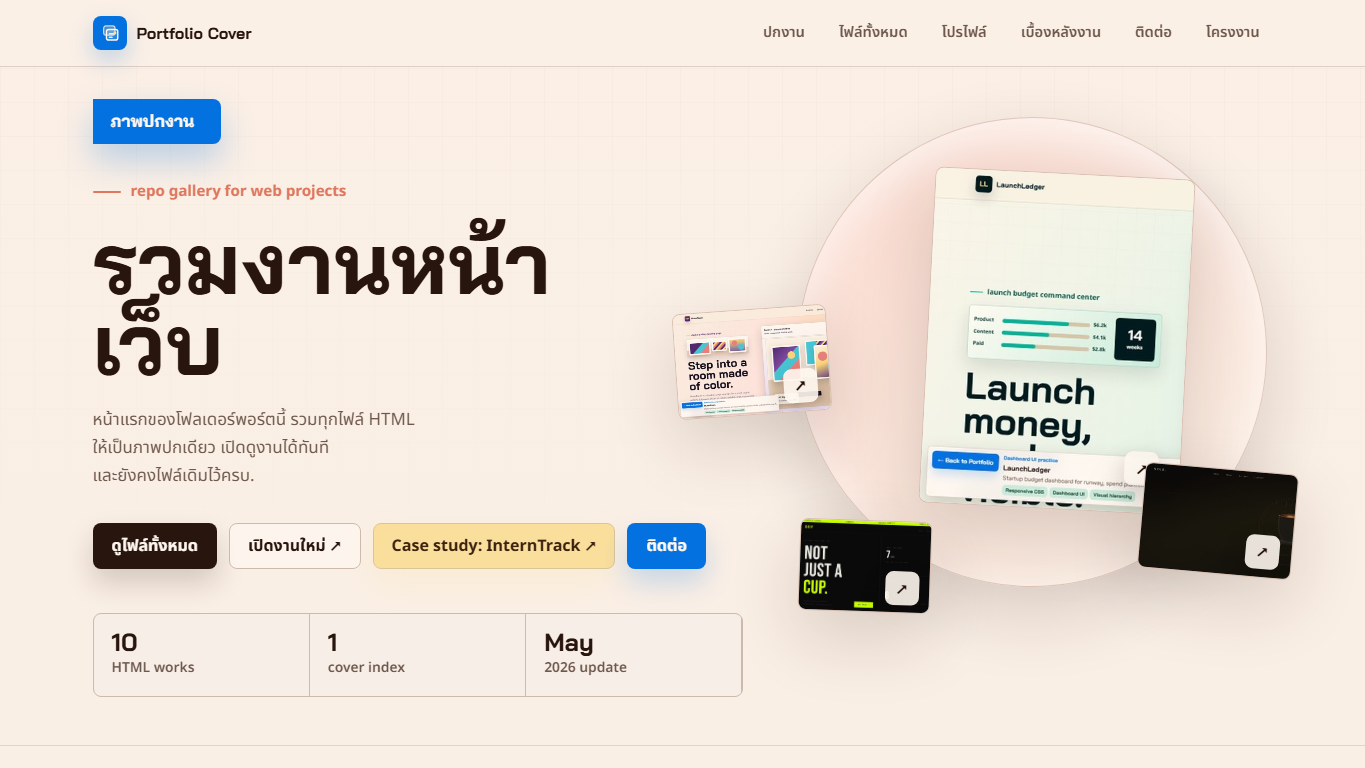
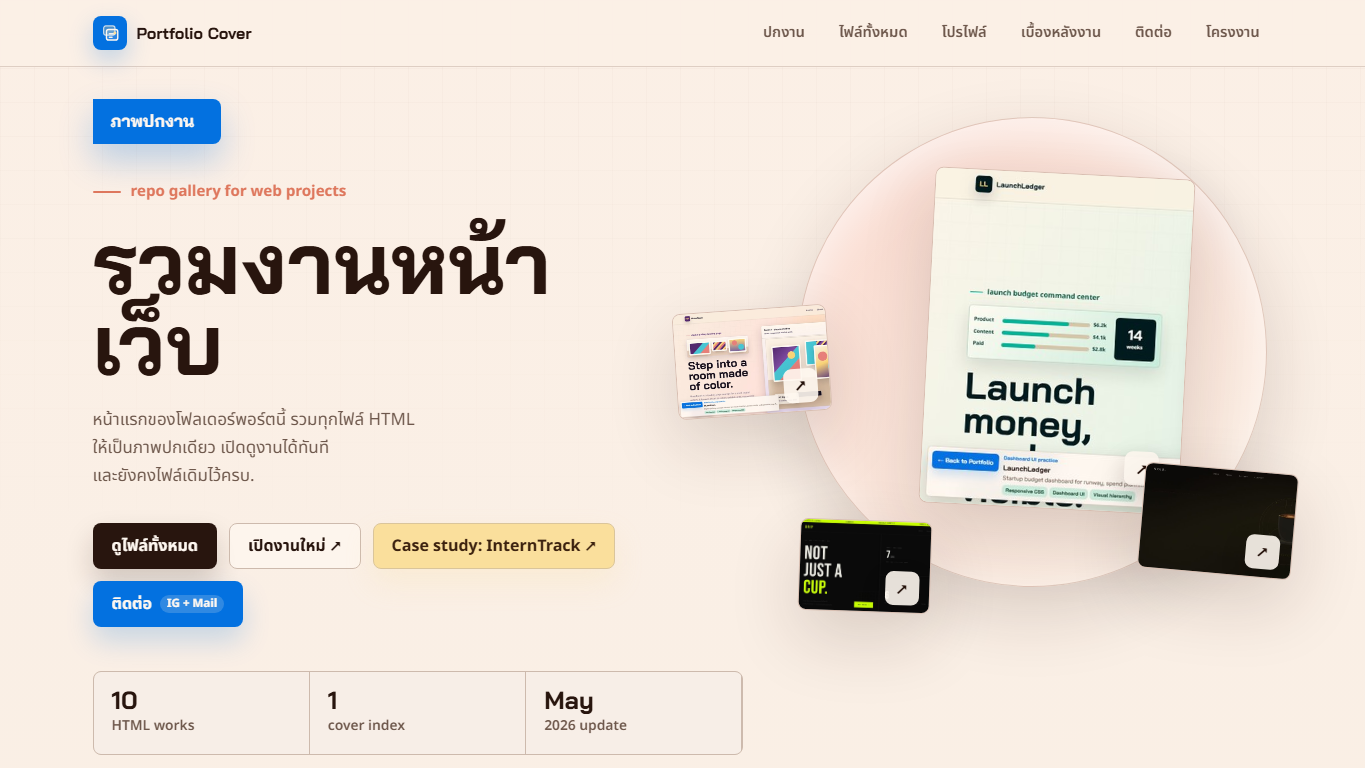
Add Instagram contact link

diff --git a/index.html b/index.html
@@ -38,7 +38,8 @@
       "name": "Phakin Chawanpunya",
       "url": "https://phakinza007.github.io/my-portfolio/",
       "sameAs": [
-        "https://github.com/Phakinza007"
+        "https://github.com/Phakinza007",
+        "https://www.instagram.com/phakinkinpa/"
       ],
       "email": "mailto:[email redacted]",
       "knowsAbout": [
@@ -653,6 +654,17 @@
       background: var(--cobalt);
       color: var(--surface);
       box-shadow: 0 14px 28px oklch(56% 0.19 256 / 0.2);
+    }
+
+    .button.contact::after {
+      content: "IG + Mail";
+      margin-left: 8px;
+      padding: 3px 7px 4px;
+      border-radius: 999px;
+      background: oklch(98% 0.012 65 / 0.18);
+      color: oklch(98% 0.012 65);
+      font-size: 0.72rem;
+      line-height: 1;
     }
 
     .button.case-study {
@@ -1761,6 +1773,15 @@
       box-shadow: 0 16px 30px oklch(91% 0.09 88 / 0.18);
     }
 
+    .contact-link.instagram {
+      min-height: 50px;
+      padding: 0 20px;
+      background: var(--coral);
+      border-color: var(--coral);
+      color: var(--surface);
+      box-shadow: 0 16px 30px oklch(68% 0.135 35 / 0.22);
+    }
+
     .process-band {
       display: grid;
       grid-template-columns: 0.8fr 1.2fr;
@@ -2138,7 +2159,7 @@
             <a class="button primary" href="#works">ดูไฟล์ทั้งหมด</a>
             <a class="button secondary" href="LaunchLedger.html">เปิดงานใหม่ ↗</a>
             <a class="button case-study" href="InternTrack.html">Case study: InternTrack ↗</a>
-            <a class="button contact" href="#contact">ติดต่อ</a>
+            <a class="button contact" href="#contact" aria-label="ไปยังลิงก์ Instagram และ email">ติดต่อ</a>
           </div>
           <div class="repo-strip" aria-label="ข้อมูล repo">
             <div class="repo-item">
@@ -2624,6 +2645,7 @@
             </div>
             <div class="resume-links" aria-label="resume contact links">
               <a class="resume-link primary" href="mailto:[email redacted]">[email redacted]</a>
+              <a class="resume-link" href="https://www.instagram.com/phakinkinpa/" rel="me noopener">Instagram @phakinkinpa</a>
               <a class="resume-link" href="https://github.com/Phakinza007">GitHub</a>
               <a class="resume-link" href="https://github.com/Phakinza007/my-portfolio">Repo</a>
             </div>
@@ -2847,6 +2869,7 @@
               responsive CSS, visual direction, and polished project presentation.
             </p>
             <div class="contact-links" aria-label="contact links">
+              <a class="contact-link instagram" href="https://www.instagram.com/phakinkinpa/" rel="me noopener">Instagram @phakinkinpa</a>
               <a class="contact-link primary" href="mailto:[email redacted]">Email me</a>
               <a class="contact-link" href="https://github.com/Phakinza007">GitHub Profile</a>
               <a class="contact-link" href="https://github.com/Phakinza007/my-portfolio">Repository</a>

diff --git a/DESIGN.md b/DESIGN.md
@@ -180,7 +180,7 @@ Motion should use `cubic-bezier(0.16, 1, 0.3, 1)` and short 180-260ms transition
 
 **Project Context Rail:** Every standalone project page should include a compact fixed context panel with `Back to Portfolio`, a short project type label, one-sentence intent, and practiced-skill tags. It prevents visitors from getting stranded after opening a project from the portfolio.
 
-**Contact Band:** A dark ink band that closes the page with identity and contact actions. Keep the email action visually primary, then support it with GitHub and repository links.
+**Contact Band:** A dark ink band that closes the page with identity and contact actions. Keep Instagram and email visually prominent, then support them with GitHub and repository links.
 
 **404 Panel:** A single focused fallback panel with a large `404` block, Thai explanation, and two actions back to the portfolio and repository. It should feel like the same portfolio system, not a browser default error.
 

diff --git a/README.md b/README.md
@@ -67,6 +67,7 @@ The launch setup includes SEO metadata, Open Graph/Twitter preview tags, a custo
 Phakin Chawanpunya
 
 - GitHub: <https://github.com/Phakinza007>
+- Instagram: <https://www.instagram.com/phakinkinpa/>
 - Email: <[email redacted]>
 
 ## Structure